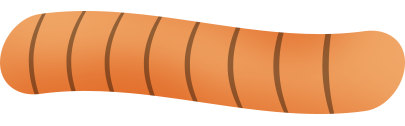
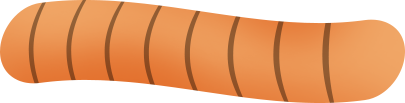
Player can now turn to rock/chrysalis to defend from stars. It loses score per second

diff --git a/game/entities/Player.py b/game/entities/Player.py
@@ -18,39 +18,46 @@ class Player(AnimatedSprite):
 
     NORMAL = 0
     DYING = 1
-    EXPLODING = 2
-    START = 3
-    GAME_OVER = 4
+    DEFENDING = 2
+    GAME_OVER = 3
 
     # Tiempo que duran los estados
     TIME_DYING = 30
-    TIME_EXPLODING = 30
     TIME_START = 60
+    SCORE_LOSS_PER_SECOND_DEFENDING = 5
 
     def __init__(self):
         AnimatedSprite.__init__(self)
 
-        name = "assets\\images\\player0"
-
         self.mFrames = []
+        self.rockFrames = []
         i = 0
         while i <= 7:
-            tmpImg = pygame.image.load(name + str(i) + ".png").convert_alpha()
+            tmpImg = pygame.image.load(
+                "assets\\images\\player0" + str(i) + ".png").convert_alpha()
             self.mFrames.append(tmpImg)
+            i += 1
+
+        i = 0
+        while i <= 7:
+            tmpImg = pygame.image.load(
+                "assets\\images\\rock-player0" + str(i) + ".png").convert_alpha()
+            self.rockFrames.append(tmpImg)
             i += 1
 
         self.setImage(self.mFrames[0])
         self.initAnimation(self.mFrames, 0, 4, True)
         self.setState(Player.NORMAL)
         self.mouth = Rectangle(self.right() - 30, self.top(), 30, self.getHeight())
+        self.defendingTimer = 0
 
     def update(self):
         self.mouth.setX(self.right() - self.mouth.getWidth())
         self.mouth.setY(self.top())
         self.mouth.setHeight(self.getHeight())
 
+
         if self.getState() == Player.NORMAL:
-            
 
             astral = AstralManager.inst().collides(self.mouth)
             if astral:
@@ -58,24 +65,26 @@ class Player(AnimatedSprite):
 
             self.move()
 
+            if Mouse.inst().leftPressed() and GameData.inst().getScore() >= Player.SCORE_LOSS_PER_SECOND_DEFENDING:
+                self.setState(Player.DEFENDING)
+
+
+        elif self.getState() == Player.DEFENDING:
+            if not Mouse.inst().leftPressed() or GameData.inst().getScore() < Player.SCORE_LOSS_PER_SECOND_DEFENDING:
+                self.setState(Player.NORMAL)
+            
+            self.defendingTimer += 1
+
+            # TODO: Magic number 30fps == 1 second
+            if self.defendingTimer > 30:
+                GameData.inst().substractScore(Player.SCORE_LOSS_PER_SECOND_DEFENDING)
+                self.defendingTimer = 0
+            
+
         elif self.getState() == Player.DYING:
             if self.getTimeState() > Player.TIME_DYING:
-                self.setState(Player.EXPLODING)
+                self.setState(Player.GAME_OVER)
                 return
-        elif self.getState() == Player.EXPLODING:
-            if self.getTimeState() > Player.TIME_EXPLODING:
-                if self.isEnded():
-                    if(GameData.inst().getLives() == 0):
-                        self.setState(Player.GAME_OVER)
-                    else:
-                        GameData.inst().addLives(-1)
-                        self.setState(Player.START)
-                return
-        elif self.getState() == Player.START:
-            if self.getTimeState() > Player.TIME_START:
-                self.setState(Player.NORMAL)
-                return
-            self.move()
 
         elif self.getState() == Player.GAME_OVER:
             return
@@ -110,11 +119,6 @@ class Player(AnimatedSprite):
                 self.setVisible(True)
             else:
                 self.setVisible(False)
-        elif self.getState() == Player.START:
-            if self.getTimeState() % 6 == 0:
-                self.setVisible(True)
-            else:
-                self.setVisible(False)
 
         AnimatedSprite.render(self, aScreen)
 
@@ -124,15 +128,16 @@ class Player(AnimatedSprite):
         self.setVisible(True)
 
         if self.getState() == Player.DYING:
-            self.stopMove()
             self.initAnimation(self.mFrames, 0, 0, False)
-        elif self.getState() == Player.START:
-            self.initAnimation(self.mFrames, 0, 0, False)
-        elif self.getState() == Player.EXPLODING:
-            print('exploding')
 
         elif self.getState() == Player.NORMAL:
             self.initAnimation(self.mFrames, 0, 2, True)
+
+        elif self.getState() == Player.DEFENDING:
+            self.defendingTimer =0
+            self.initAnimation(self.rockFrames, self.getCurrentFrame(), 0, False)
+            self.gotoAndStop(self.getCurrentFrame())
+            self.stopMove()
 
         elif self.getState() == Player.GAME_OVER:
             self.setVisible(False)

diff --git a/game/GameData.py b/game/GameData.py
@@ -39,6 +39,10 @@ class GameData(object):
         GameData.mScore += aScore
         self.controlScores()
 
+    def substractScore(self, aScore):
+        GameData.mScore -= aScore
+        self.controlScores()
+
     def controlScores(self):
         if GameData.mScore < 0:
             GameData.mScore = 0

diff --git a/api/AnimatedSprite.py b/api/AnimatedSprite.py
@@ -64,6 +64,9 @@ class AnimatedSprite(Sprite):
             self.mEnded = False
             self.mTimeFrame = 0
 
+    def getCurrentFrame(self):
+        return self.mCurrentFrame
+
     def destroy(self):
         Sprite.destroy(self)
         i = len(self.mFrame)
